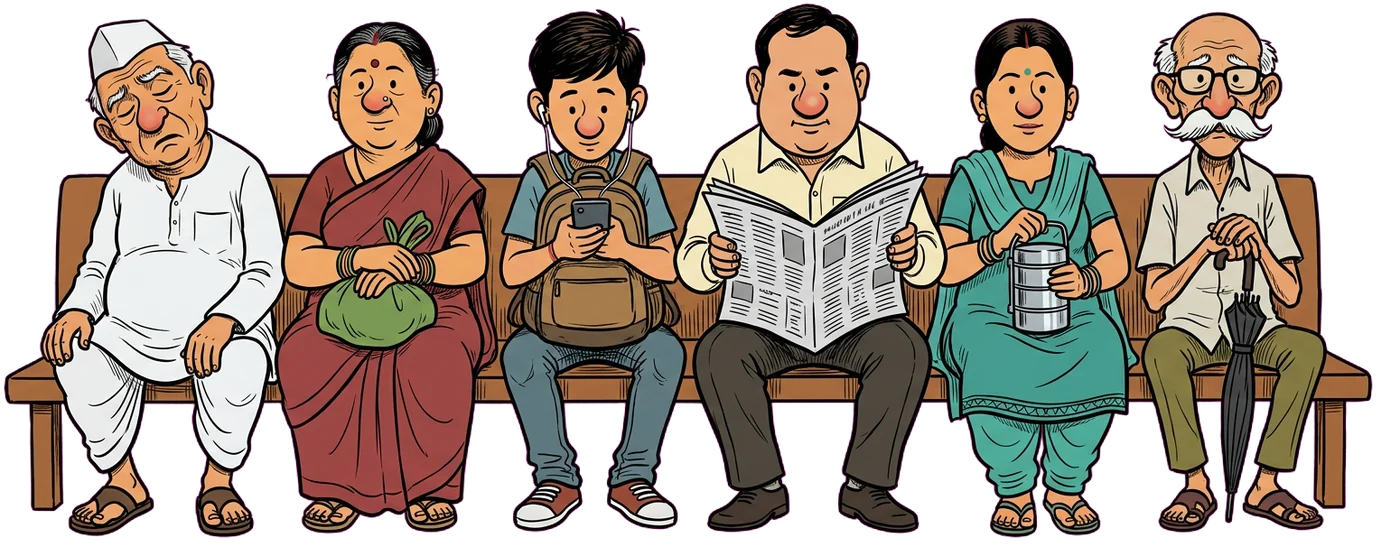
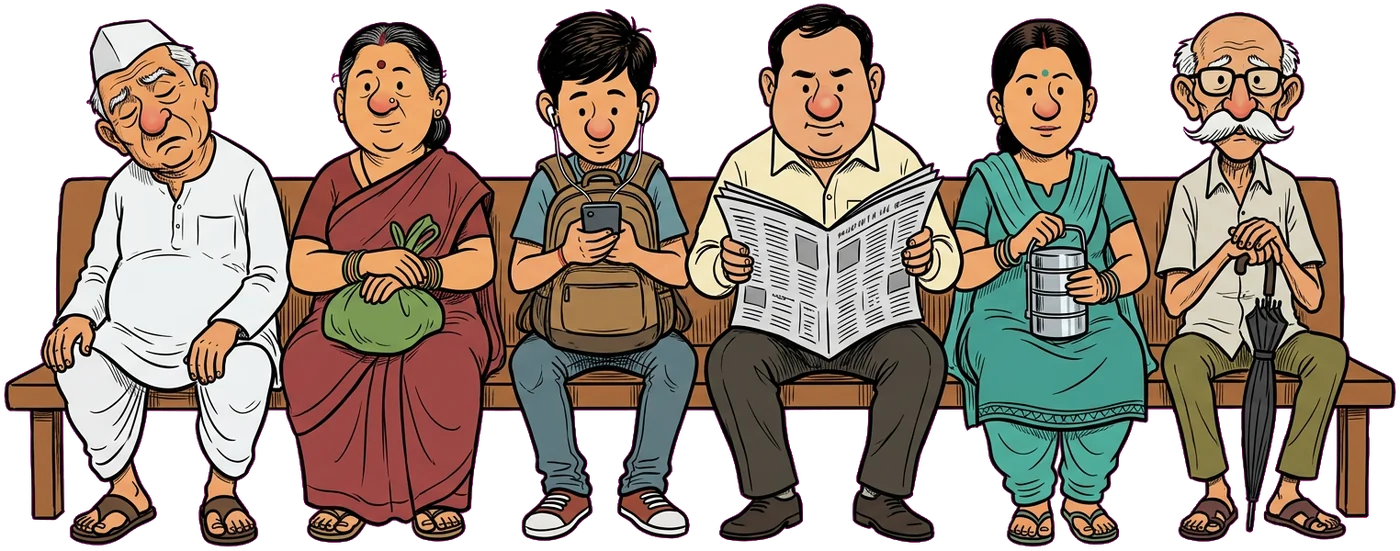
Illustrated in-game characters (Figma AI pose sheets)

diff --git a/index.html b/index.html
@@ -1731,6 +1731,7 @@ function drawStrap(x, angle, L, scale){
   ctx.restore();
 }
 function drawBgStraps(){
+  if (sprReady && sprOk('oldman-calm')) { for (const x of [0.34, 0.63]) drawStrap(x * W, bgStraps[0].a, G.bgL, 0.85); return; } // illustrated commuters bring their own straps
   for (const b of bgStraps) {
     const x = b.x * W;
     drawStrap(x, b.a, G.bgL, 0.85);
@@ -2248,6 +2249,139 @@ function drawReplayHud(){
   ctx.fillStyle = '#fff'; ctx.font = `700 ${Math.round(7 * G.u + 6)}px ${FONT}`; ctx.textAlign = 'right'; ctx.textBaseline = 'middle'; ctx.fillText('×0.5', W - 14, H - bar / 2);
 }
 
+/* ---------- Illustrated characters (Figma AI pose sheets → www/art/*.webp + sprites.json) ----------
+   Each character is a set of full-body poses. The game picks the pose from the mood, tilts the whole
+   figure around the feet for the lean, and draws the strap live from the rail to the ring in the hand. */
+const SPR = {};
+let sprReady = false;
+fetch('art/sprites.json').then(r => r.json()).then(m => {
+  let left = Object.keys(m).length;
+  for (const [k, v] of Object.entries(m)) {
+    const im = new Image(); im.onload = im.onerror = () => { if (--left === 0) { sprReady = true; for (const c in portraitCache) delete portraitCache[c]; if (S.state === 'menu') refreshMenus(); } };
+    im.src = 'art/' + k + '.webp'; SPR[k] = Object.assign({ img: im }, v);
+  }
+}).catch(() => {});
+const sprOk = k => !!(SPR[k] && artOk(SPR[k].img));
+// eye-line centre (x, y as fractions of the calm sprite) and face half-width (fraction of width), measured from the art
+const HEAD = { rahul: { x: 0.41, y: 0.31, r: 0.28, top: 0.2 }, desai: { x: 0.55, y: 0.31, r: 0.23, top: 0.24 }, sunita: { x: 0.42, y: 0.31, r: 0.19, top: 0.235 }, ganesh: { x: 0.48, y: 0.32, r: 0.285, top: 0.2 } };
+const ACC_IMG = {};
+for (const k of ['idcard', 'shades', 'cap', 'phones', 'gajra', 'goldshades', 'pheta']) { const im = new Image(); im.src = 'art/item-' + k + '.webp'; ACC_IMG[k] = im; }
+// one shared scale per character, from its calm pose: feet on the floor, ring just below the rail
+function charScale(key){
+  const c = SPR['p-' + key + '-calm'];
+  return (G.floorY - (G.railY + G.L * 0.32)) / (c.foot[1] - c.top[1]);
+}
+function poseKey(key, mood, seated){
+  const p = seated ? 'sit' : mood === 'ko' ? 'panic' : (mood === 'calm' || mood === 'worry' || mood === 'panic' || mood === 'relief') ? mood : 'calm';
+  return 'p-' + key + '-' + p;
+}
+function drawAccOnSprite(key, acc, sp, sc){ // in sprite-local space (origin at the feet), before rotation is applied by the caller
+  const hd = HEAD[key], im = ACC_IMG[acc]; if (!hd || !im || !artOk(im)) return;
+  const c = SPR['p-' + key + '-calm'], rw = hd.r * c.w * sc;
+  const ex = (hd.x * c.w - c.foot[0]) * sc, ey = (hd.y * c.h - c.foot[1]) * sc, topY = (hd.top * c.h - c.foot[1]) * sc;
+  const ar = im.naturalHeight / im.naturalWidth; let w, x, y;
+  if (acc === 'shades' || acc === 'goldshades') { w = rw * 2.05; x = ex - w / 2; y = ey - w * ar * 0.5; }
+  else if (acc === 'cap') { w = rw * 2.5; x = ex - w * 0.45; y = topY - w * ar * 0.42; }
+  else if (acc === 'phones') { w = rw * 2.5; x = ex - w / 2; y = topY - rw * 0.15; }
+  else if (acc === 'pheta') { w = rw * 2.35; x = ex - w / 2; y = topY - w * ar * 0.55; }
+  else if (acc === 'gajra') { w = rw * 1.1; x = ex + rw * 0.55; y = ey - rw * 0.2; }
+  else if (acc === 'idcard') { w = rw * 0.9; x = ex - w / 2; y = ey + rw * 1.25; }
+  ctx.drawImage(im, x, y, w, w * ar);
+}
+function liveStrap(px, py, rx, ry){ // leather strap from the rail clamp down to the top of the ring
+  ctx.lineCap = 'round';
+  ctx.strokeStyle = INK; ctx.lineWidth = 8 * G.u + 4; ctx.beginPath(); ctx.moveTo(px, py); ctx.lineTo(rx, ry); ctx.stroke();
+  ctx.strokeStyle = '#6b4226'; ctx.lineWidth = 8 * G.u + 1; ctx.stroke();
+  ctx.strokeStyle = 'rgba(255,255,255,.18)'; ctx.lineWidth = 2; ctx.beginPath(); ctx.moveTo(px - 2, py); ctx.lineTo(rx - 2, ry); ctx.stroke();
+  ctx.fillStyle = '#9aa1a8'; rr(ctx, px - 9 * G.u, py - 6 * G.u, 18 * G.u, 11 * G.u, 3); ctx.fill(); ink(0.7);
+}
+function drawPlayerSprite(){
+  const key = heroKey(); if (!sprReady || !sprOk('p-' + key + '-calm')) return false;
+  const mood = moodOf(), seated = S.seatT > 0, pk = poseKey(key, mood, seated && S.seatT > 0.35 && S.seatT < 5.65);
+  const sp = SPR[pk] || SPR['p-' + key + '-calm'], c = SPR['p-' + key + '-calm'], sc = charScale(key);
+  const th = seated ? 0 : S.tilt * DEG, fx = G.cx, fy = G.floorY;
+  const pivotX = fx + (c.top[0] - c.foot[0]) * sc; G.px = pivotX;
+  // hatched floor shadow
+  ctx.save(); ctx.beginPath(); ctx.ellipse(fx + Math.sin(th) * 20, fy + 4, G.tw * 0.85, G.tw * 0.15, 0, 0, TAU); ctx.clip(); hatchRect(fx - G.tw * 1.3, fy - G.tw, G.tw * 2.8, G.tw * 2, 0.7); ctx.restore();
+  const isSit = pk.endsWith('-sit');
+  if (isSit) { // the seat you won: a brown bench under the hips
+    const bh = sp.h * sc * 0.4; ctx.beginPath(); rr(ctx, fx - G.tw, fy - bh, G.tw * 2, G.tw * 0.26, 6); fillInk('#8a5a33', 1);
+    ctx.beginPath(); rr(ctx, fx - G.tw * 0.9, fy - bh + G.tw * 0.26, G.tw * 0.14, bh - G.tw * 0.26, 3); fillInk('#5e3c22', 0.8);
+    ctx.beginPath(); rr(ctx, fx + G.tw * 0.76, fy - bh + G.tw * 0.26, G.tw * 0.14, bh - G.tw * 0.26, 3); fillInk('#5e3c22', 0.8);
+    drawStrap(pivotX, S.strapA, G.L * 1.1, 1); // the empty strap swings above
+  }
+  const lx = (sp.top[0] - sp.foot[0]) * sc, ly = (sp.top[1] - sp.foot[1]) * sc; // ring top in local space
+  const cth = Math.cos(th), sth = Math.sin(th);
+  const ringX = fx + lx * cth - ly * sth, ringY = fy + lx * sth + ly * cth;
+  if (!isSit && mood !== 'ko') liveStrap(pivotX, G.railY, ringX, ringY + 2);
+  if (mood === 'ko') drawStrap(pivotX, S.strapA, G.L, 1); // let go: the strap swings free
+  const jit = mood === 'panic' ? (Math.random() - 0.5) * 1.6 : 0, bob = mood === 'relief' ? -Math.abs(Math.sin(S.t * 10)) * 3 : 0;
+  ctx.save(); ctx.translate(fx + jit, fy + bob); ctx.rotate(th);
+  ctx.drawImage(sp.img, -sp.foot[0] * sc, -sp.foot[1] * sc, sp.w * sc, sp.h * sc);
+  const acc = save.acc; if (acc && !isSit) drawAccOnSprite(key, acc, sp, sc);
+  ctx.restore();
+  // head + shoulder positions (speech bubbles, fall particles)
+  const hd = HEAD[key] || { x: 0.45, y: 0.3 }, hx = (hd.x * c.w - c.foot[0]) * sc, hy = (hd.top * c.h - c.foot[1]) * sc;
+  S.headX = fx + hx * cth - hy * sth; S.headY = fy + hx * sth + hy * cth;
+  const sy0 = -c.h * sc * 0.6; S.shX = fx - sy0 * sth; S.shY = fy + sy0 * cth;
+  return true;
+}
+const NEIGH = ['oldman', 'saree', 'specs', 'mustard'];
+function drawCommuterSprites(){
+  if (!sprReady || !sprOk('oldman-calm')) return false;
+  const sleeper = S.event === 'sleepy' ? (S.evSide > 0 ? 1 : 2) : -1, sk = evK();
+  COMMUTERS.forEach((cm, idx) => {
+    const set = NEIGH[idx], glaring = S.glare && S.glare.idx === idx, cheering = S.cheerT > 0;
+    const sp = SPR[set + '-' + (cheering ? 'cheer' : glaring ? 'glare' : 'calm')] || SPR[set + '-calm'], c = SPR[set + '-calm'];
+    const flip = idx >= 2 ? -1 : 1, depth = 0.9;
+    const sc = (G.floorY - (G.railY + G.L * 0.32)) / (c.foot[1] - c.top[1]) * depth;
+    let ang = clamp(S.force * 0.0018, -0.25, 0.25) + Math.sin(S.t * 1.7 + cm.ph) * 0.025;
+    if (idx === sleeper) ang += S.evSide * 0.16 * sk;
+    if (glaring) ang += (idx >= 2 ? 0.05 : -0.05);
+    const bx = cm.x * W, by = G.floorY - H * 0.012;
+    ctx.save(); ctx.beginPath(); ctx.ellipse(bx, by + 3, G.tw * 0.55, G.tw * 0.11, 0, 0, TAU); ctx.clip(); hatchRect(bx - G.tw, by - G.tw, G.tw * 2, G.tw * 2, 0.55); ctx.restore();
+    const lx = (sp.top[0] - sp.foot[0]) * sc * flip, ly = (sp.top[1] - sp.foot[1]) * sc;
+    const ca = Math.cos(ang), sa = Math.sin(ang);
+    const rx = bx + lx * ca - ly * sa, ry = by + lx * sa + ly * ca;
+    const pivot = bx + (c.top[0] - c.foot[0]) * sc * flip;
+    liveStrap(pivot, G.railY, rx, ry + 2);
+    ctx.save(); ctx.translate(bx, by); ctx.rotate(ang); ctx.scale(flip, 1);
+    ctx.drawImage(sp.img, -sp.foot[0] * sc, -sp.foot[1] * sc, sp.w * sc, sp.h * sc);
+    ctx.restore();
+    const hx = (sp.w * 0.45 - sp.foot[0]) * sc * flip, hy = (sp.h * 0.22 - sp.foot[1]) * sc;
+    cm.hx = bx + hx * ca - hy * sa; cm.hy = by + hx * sa + hy * ca;
+    if (idx === sleeper) { ctx.fillStyle = '#fff'; ctx.strokeStyle = INK; ctx.lineWidth = 3; ctx.font = `700 ${Math.round(14 * G.u + 6)}px ${FONT}`; ctx.textAlign = 'center'; const zy = cm.hy - G.headR * 1.4 - Math.sin(S.t * 3) * 4; ctx.strokeText('Zzz', cm.hx, zy); ctx.fillText('Zzz', cm.hx, zy); }
+  });
+  return true;
+}
+function drawChaiwalaSprite(){
+  if (S.event !== 'chai') return true;
+  if (!sprReady || !sprOk('chai-walk1')) return false;
+  const p = S.eventT / S.eventDur, x = S.evSide > 0 ? lerp(-W * 0.25, W * 1.25, p) : lerp(W * 1.25, -W * 0.25, p);
+  const frames = ['chai-walk1', 'chai-walk2', 'chai-walk3', 'chai-walk2'], sp = SPR[frames[Math.floor(S.t * 7) % 4]];
+  const sc = (G.floorY - G.winY1 * 0.95) / sp.h, by = G.floorY - H * 0.005, flip = S.evSide > 0 ? 1 : -1;
+  ctx.save(); ctx.translate(x, by - Math.abs(Math.sin(S.t * 14)) * 2); ctx.scale(flip, 1);
+  ctx.drawImage(sp.img, -sp.foot[0] * sc, -sp.foot[1] * sc, sp.w * sc, sp.h * sc);
+  ctx.restore();
+  const byy = by - sp.h * sc - 18; ctx.font = `700 ${Math.round(9 * G.u + 6)}px ${FONT}`; const tw2 = ctx.measureText(T('chaiCall')).width + 22;
+  ctx.beginPath(); rr(ctx, x - tw2 / 2, byy - 14, tw2, 28, 14); fillInk('#fff', 0.8);
+  ctx.fillStyle = INK; ctx.textAlign = 'center'; ctx.textBaseline = 'middle'; ctx.fillText(T('chaiCall'), x, byy + 1);
+  return true;
+}
+// shop "wearer" badge / portraits: the calm illustrated pose with the accessory on, cropped to head and shoulders
+function spritePortrait(key, acc){
+  const c = SPR['p-' + key + '-calm']; if (!c || !artOk(c.img)) return null;
+  const out = document.createElement('canvas'); out.width = out.height = 300; const oc = out.getContext('2d');
+  const sc = 300 / (c.w * 1.05), keep = ctx;
+  try {
+    ctx = oc; ctx.save(); ctx.translate(150 - (c.w * 0.5 - c.foot[0]) * sc, c.foot[1] * sc - (HEAD[key] ? HEAD[key].top * c.h * sc - 20 : 0));
+    ctx.drawImage(c.img, -c.foot[0] * sc, -c.foot[1] * sc, c.w * sc, c.h * sc);
+    if (acc) drawAccOnSprite(key, acc, c, sc);
+    ctx.restore();
+  } finally { ctx = keep; }
+  return out.toDataURL('image/png');
+}
+
 function drawFx(){
   const hq = save.settings.hq;
   const nd = hq ? dust.length : 10;
@@ -2413,7 +2547,7 @@ function render(){
   const z = 1 + 0.04 * S.danger; // push in on the player at the edge
   ctx.save();
   ctx.translate(W / 2 + ox, H * 0.55 + oy); ctx.rotate(roll); ctx.scale(z, z); ctx.translate(-W / 2, -H * 0.55);
-  drawInterior(); drawBgStraps(); drawBackRow(); drawPoles(); drawCommuters(); drawChaiwala(); drawGhost(); drawPlayer(); drawForeground(); drawBubbles();
+  drawInterior(); drawBgStraps(); drawBackRow(); drawPoles(); if (!drawCommuterSprites()) drawCommuters(); if (!drawChaiwalaSprite()) drawChaiwala(); drawGhost(); if (!drawPlayerSprite()) drawPlayer(); drawForeground(); drawBubbles();
   if (S.event === 'tunnel') { ctx.fillStyle = `rgba(10,5,25,${0.4 * evK()})`; ctx.fillRect(-80, -80, W + 160, H + 160); }
   ctx.restore();
   drawFx(); drawOffer(); drawBuffs(); drawBoard(); drawBanner(); drawTutorial(); if (S.state !== 'replay') { drawGauge(); drawTouchHints(); } drawReplayHud();
@@ -2520,6 +2654,7 @@ function portrait(key, acc){
   acc = acc || '';
   const id = key + '|' + acc + '|' + Math.round(W) + 'x' + Math.round(H);
   if (portraitCache[id]) return portraitCache[id];
+  if (sprReady) { const spp = spritePortrait(key, acc); if (spp) return (portraitCache[id] = spp); }
   const sc = 2, off = document.createElement('canvas'); off.width = Math.ceil(W * sc); off.height = Math.ceil(H * sc);
   const oc = off.getContext('2d'); oc.setTransform(sc, 0, 0, sc, 0, 0);
   const keep = { ctx, tilt: S.tilt, strapA: S.strapA, state: S.state, seatT: S.seatT, reliefT: S.reliefT, exhausted: S.exhausted, t: S.t, headX: S.headX, headY: S.headY };
